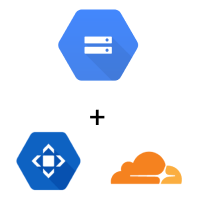
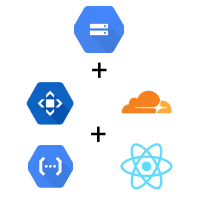
Update Blog “2020-09-28-how-to-set-up-your-own-personal-cdn-cloud-using-gcp”

diff --git a/_posts/2020-09-28-how-to-set-up-your-own-personal-cdn-cloud-using-gcp.md b/_posts/2020-09-28-how-to-set-up-your-own-personal-cdn-cloud-using-gcp.md
@@ -1,26 +1,30 @@
 ---
 layout: post
 section-type: post
-date: 2020-11-20
-lastmod: 2020-11-20
-title: How to Set Up Your Own Personal CDN & "Cloud" using GCP and Cloudflare
+date: 2020-11-23
+lastmod: 2020-11-23
+title: How to Set Up Your Own Personal CDN, File Host and Custom File Browser
+  using Google Cloud Platform and Cloudflare
 image: /img/uploads/gcp-cdn-post-thumbnail.png
 top-image: ""
-slug: gcp-cdn
-url_slug: gcp-cdn
+slug: gcp-storage-cdn
+url_slug: gcp-storage-cdn
 category: tutorials
 tags:
   - tutorial
   - clouds
+  - javascript
+  - project
 postdescription: In this tutorial, I will show how to easily set up your own
-  "cloud" for file hosting, using Google Cloud Storage, network services and
-  Cloudflare. I will also explain how to create a simple dashboard for it using
-  Node.js.
-titletag: How to Set Up Your Own Personal CDN & Cloud using Google Cloud Storage
-  and Load Balancing.
+  "cloud" and CDN for file hosting, using Google Cloud Storage, networking
+  services and Cloudflare. I will also explain how to host a custom lightweight
+  React.js file browser for it.
+titletag: How to Set Up Your Own Personal CDN, File Host and Custom File Browser
+  using Google Cloud Platform and Cloudflare
 description: In this tutorial, I will show how to easily set up your own "cloud"
-  for file hosting, using Google Cloud Storage, network services and Cloudflare.
-  I will also explain how to create a simple dashboard for it using Node.js.
+  and CDN for file hosting, using Google Cloud Storage, networking services and
+  Cloudflare. I will also explain how to host a custom lightweight React.js file
+  browser for it.
 ---
 Recently, it occurred to me that it would be cool to have my own CDN subdomain and file sharing service. Of course, there are many easier options for hosting your files online, such as using something like Google Drive or one of the hundreds of free file sharing websites and services out there. However, having a personal cloud with only your own files and sending people links to [cdn.mydomain.com/file.txt](https://cdn.benjaminashbaugh.me/hello.txt) has got to be much cooler than sending people links to "sketchyfilewebsite.com/file/hashthatnoonewillremember.txt". Also, using the CDN layer will also allow you to efficiently host things such as images and JavaScript libraries for your websites, etc. Fortunately, it's super easy to set one up!
 
